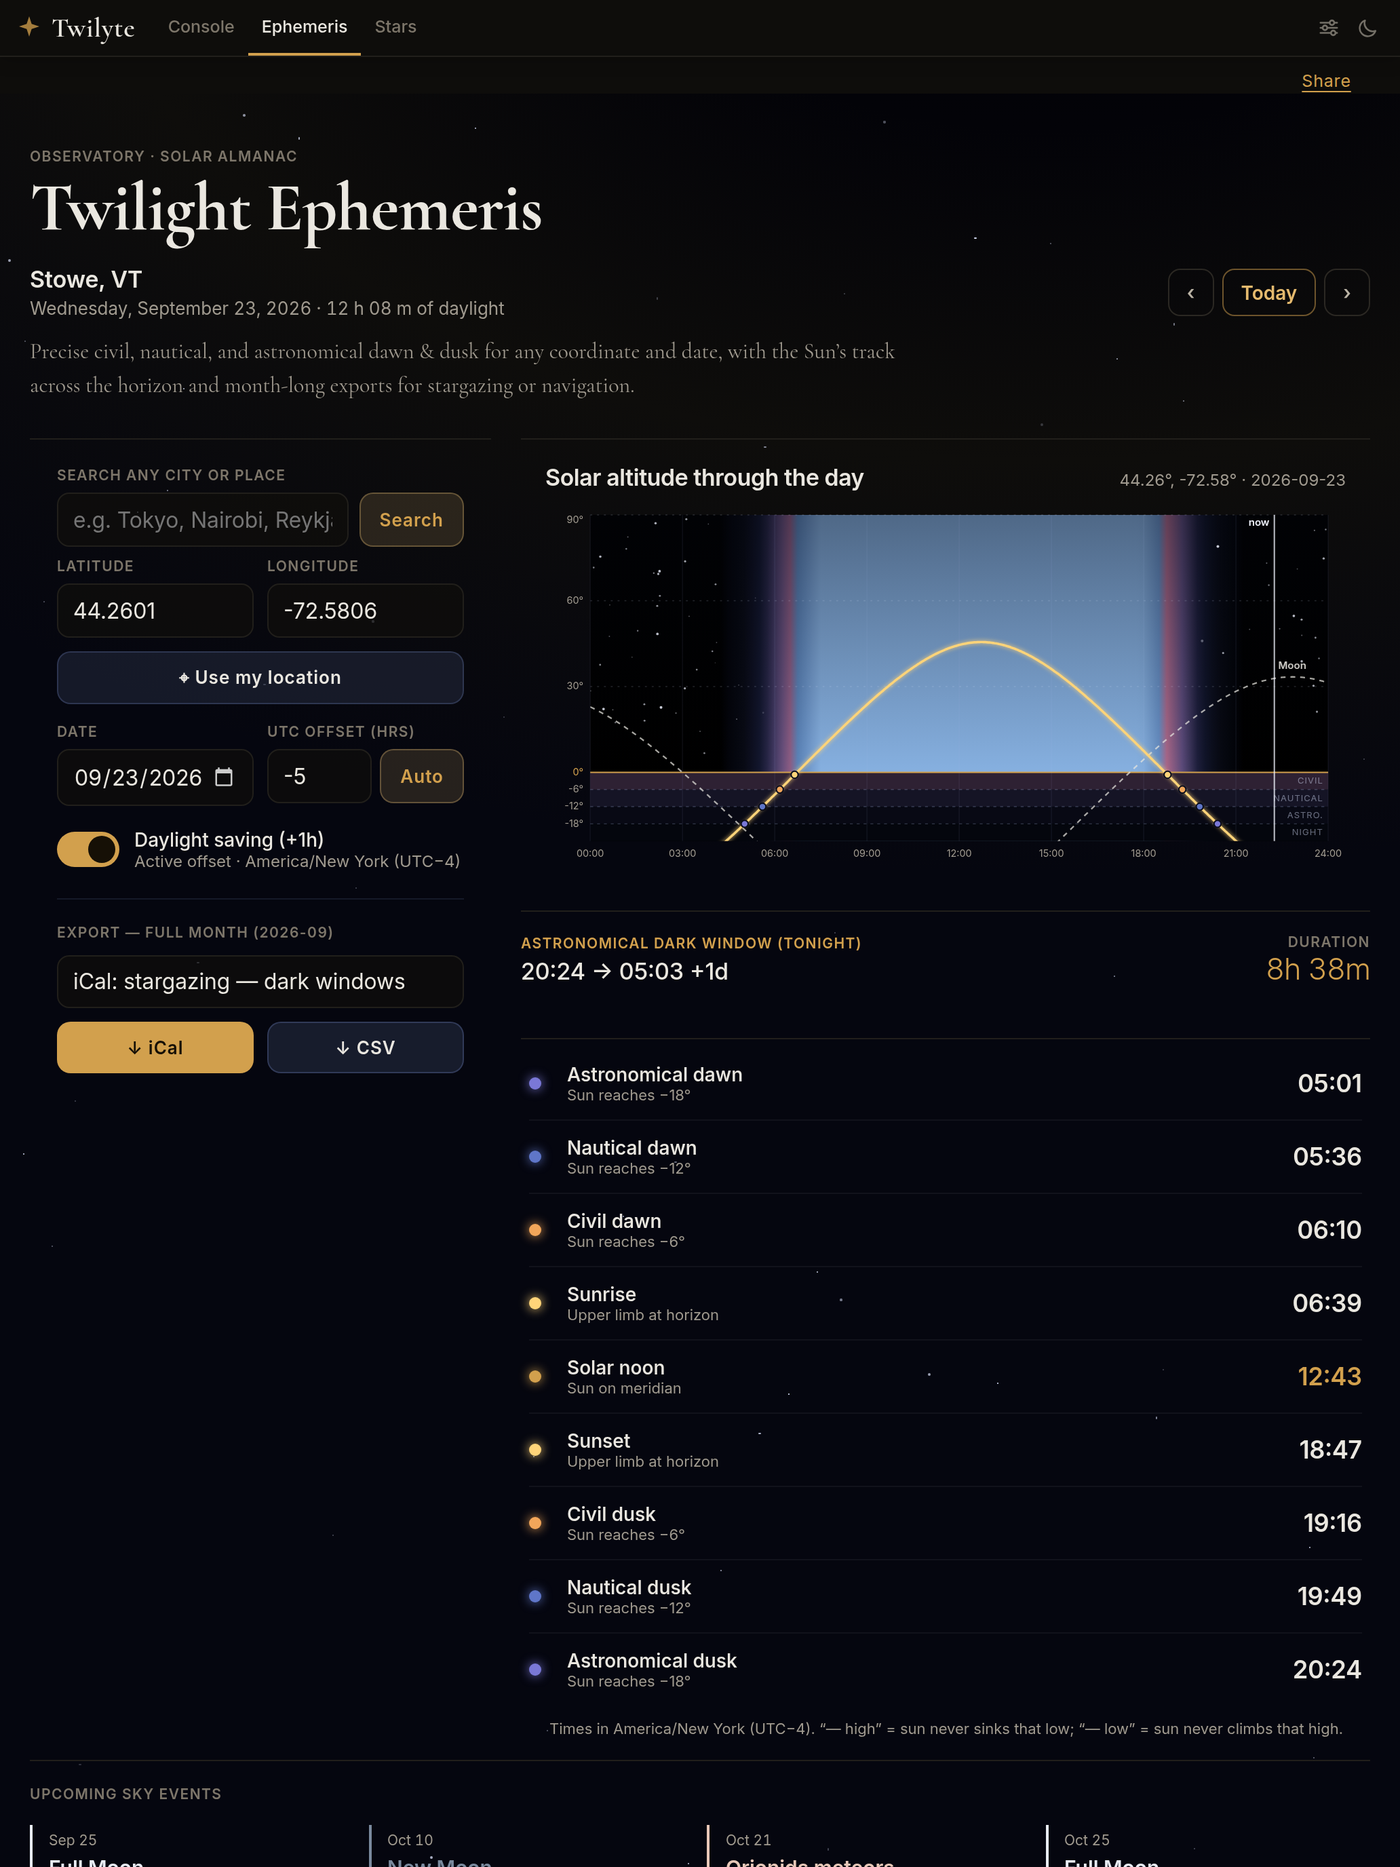
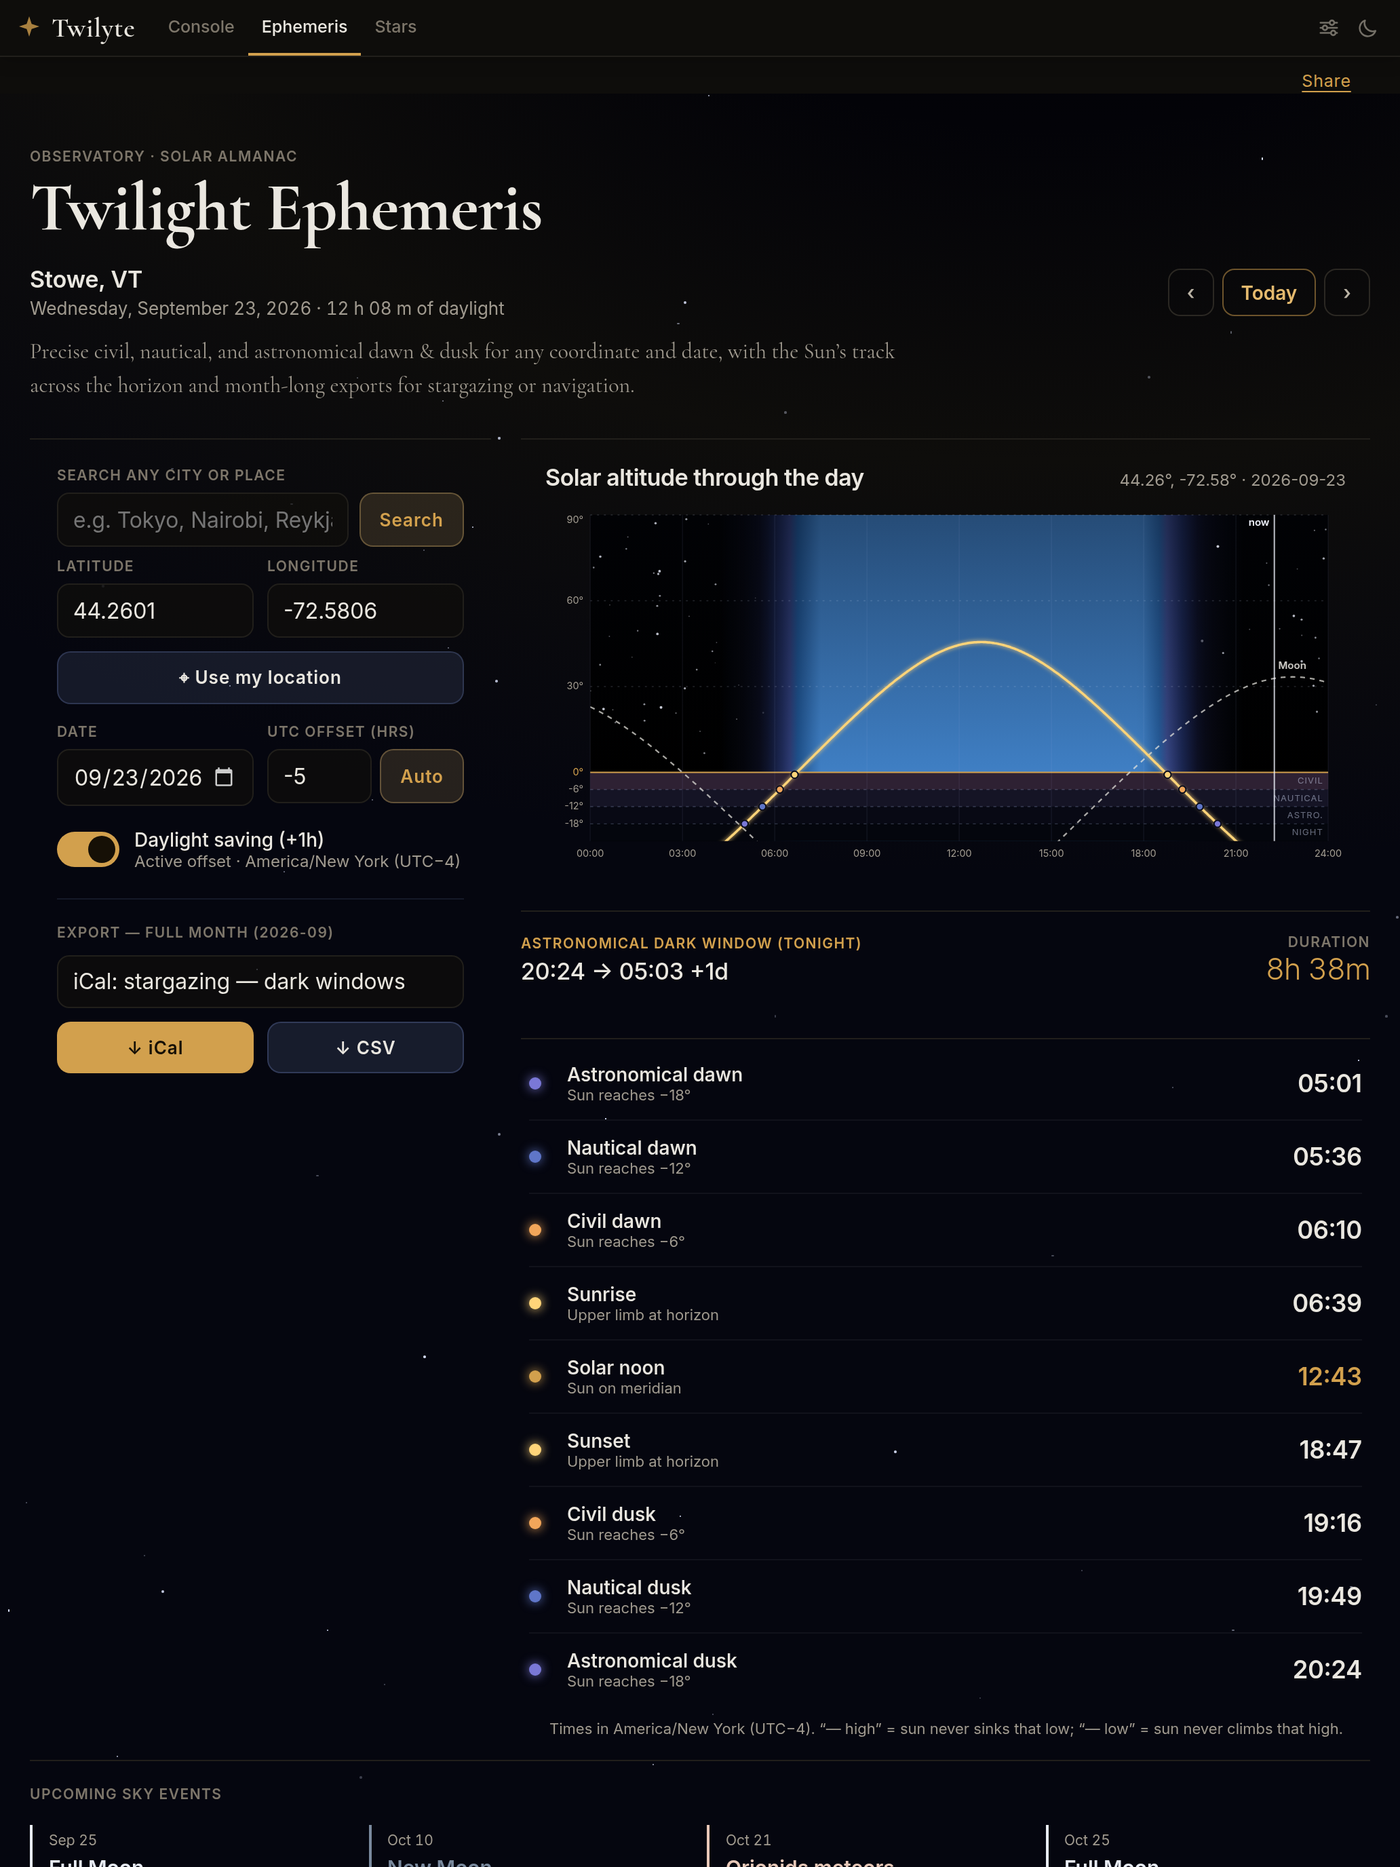
Fix two phone-screen defects: daytime planets and a blocky skyline on the Console, a stuck readout and magenta stripes on the Ephemeris
Screenshots from an iPhone on 2026-09-23 at 10:22 showed both screens
looking wrong.

Console horizon painting:
- Jupiter, Mars and Mercury were painted and labelled over a blue daytime
  sky. They were above the horizon, but nobody can see them in daylight,
  and "Mercury" sat inside the Sun's glow. Planets are now drawn only once
  the Sun is 3 degrees down, by which point the bright ones are out.
- The "Jupiter" label printed across the date line of the place-name
  header. Body labels now keep clear of the header: HorizonHero measures
  where the header's text actually is (a DOM Range over its contents,
  relative to the canvas) and passes it as `reserve`; a label that would
  cover it flips to the other side of its body, or is left off when both
  sides would, and the body itself is still drawn.
- In a city-bright sky (Bortle 6+) the skyline was rectangles up to 70 px
  tall and 46 wide, which read as a bar chart along the horizon. It is now
  low roofs, 5-19 px wide and 3-13 px tall over a gentle rise, with the odd
  taller building (up to ~28 px).

Ephemeris solar-altitude chart:
- The hover readout ("00:00 -47.0 deg Night") stayed stuck on the chart,
  covering the "now" label. On iOS a touch that turns into a scroll is
  cancelled, not ended, and only touchend cleared it. touchcancel now
  clears it too.
- The painted day used skyColors' middle-band colour, whose dusk and dawn
  pinks filled a full-height column, so each twilight read as a magenta
[…]

Changed region(s): [[0.5271, 0.25, 0.8682, 0.4375]]

diff --git a/index.html b/index.html
@@ -2,7 +2,7 @@
 <html lang="en">
 <head>
 <meta charset="utf-8" />
-<meta http-equiv="Content-Security-Policy" content="default-src 'self'; script-src 'self' 'sha256-LtvvfGVmfcoHWp4+TD4Lt7CBdUP12N0xoz2a4TCIlgA=' 'sha256-2WFykE7wvy9rfb6MuxdEk17+inylzAieA3wTF6WO6oc=' 'sha256-5iQLZZarga65DX0f9Sd0iyRmfHgUzB8mc6W/19dA1m0=' 'sha256-W7LOtLzrOupI1Jtgd/Y+/4i0SmNvTOg2p60Xv9ISVZs=' 'sha256-JAy4ooiqCu/2GUX/T0oycyxLZ4vrWZ1Xwxtepo5wmOg='; style-src 'self' 'unsafe-inline'; img-src 'self' data:; font-src 'self'; connect-src 'self' https://geocoding-api.open-meteo.com https://api.open-meteo.com https://twilight-counter.ken-b39.workers.dev; manifest-src 'self'; worker-src 'self'; base-uri 'self'; form-action 'self'; object-src 'none'; upgrade-insecure-requests" />
+<meta http-equiv="Content-Security-Policy" content="default-src 'self'; script-src 'self' 'sha256-LtvvfGVmfcoHWp4+TD4Lt7CBdUP12N0xoz2a4TCIlgA=' 'sha256-2WFykE7wvy9rfb6MuxdEk17+inylzAieA3wTF6WO6oc=' 'sha256-5iQLZZarga65DX0f9Sd0iyRmfHgUzB8mc6W/19dA1m0=' 'sha256-wC1wQlMr/a1BcoSChLdngOnOniN/RfM5JQhCIbvJ77g=' 'sha256-JAy4ooiqCu/2GUX/T0oycyxLZ4vrWZ1Xwxtepo5wmOg='; style-src 'self' 'unsafe-inline'; img-src 'self' data:; font-src 'self'; connect-src 'self' https://geocoding-api.open-meteo.com https://api.open-meteo.com https://twilight-counter.ken-b39.workers.dev; manifest-src 'self'; worker-src 'self'; base-uri 'self'; form-action 'self'; object-src 'none'; upgrade-insecure-requests" />
 <meta name="viewport" content="width=device-width, initial-scale=1, viewport-fit=cover" />
 <meta name="theme-color" content="#070a14" />
 <title>Twilyte — Live Sky Dashboard & Twilight Ephemeris</title>
@@ -1608,7 +1608,7 @@ const C = {
 // Bumped with sw.js's CACHE, so a Sensor details screenshot says which build
 // it came from. It sat at v56 for weeks while the app moved on, which made
 // every field report ambiguous.
-const BUILD = "v90";
+const BUILD = "v91";
 const PAGE_BG = "radial-gradient(1200px 760px at 75% -10%, #1b2440 0%, #0a0e1e 45%, #04050d 100%)";
 function phaseOf(alt) {
   if (alt > -0.833) return "day";
@@ -2144,13 +2144,24 @@ function drawHorizonScene(g, w, h, o) {
 
   g.font = '600 12px Inter, system-ui, sans-serif';
   g.textBaseline = 'middle';
+  // A name goes right of its body, or left near the edge; it is skipped if
+  // both would cover the place-name header drawn over the top-left
+  // (`o.reserve`, {w, h} in px), where it used to collide with the date line.
+  const rsv = o.reserve || { w: 0, h: 0 };
   const label = (text, x, y, gap) => {
-    const flip = x + gap + g.measureText(text).width > w - 8;
+    const tw = g.measureText(text).width;
+    const hits = (x0, x1) => y - 8 < rsv.h && x0 < rsv.w && x1 > 0;
+    let flip = x + gap + tw > w - 8;
+    if (!flip && hits(x + gap, x + gap + tw)) flip = true;
+    if (flip && hits(x - gap - tw, x - gap)) return;
     g.textAlign = flip ? 'right' : 'left';
     g.fillStyle = 'rgba(238,241,250,.82)';
     g.fillText(text, flip ? x - gap : x + gap, y);
   };
-  o.planets.forEach(p => {
+  // Planets only once the sky is dark enough to show them: in daylight they
+  // are there but invisible, and painting them over a blue sky promised
+  // something no one could see. By mid civil twilight the bright ones are out.
+  if (o.sunAlt < -3) o.planets.forEach(p => {
     const x = X(p.az);
     if (x === null) return;
     const y = Y(p.alt);
@@ -2180,9 +2191,14 @@ function drawHorizonScene(g, w, h, o) {
   g.beginPath();
   g.moveTo(0, h);
   if (o.bortle >= 6) {
+    // A distant town, not a wall of blocks: low roofs over a gentle rise,
+    // with the odd taller building. (The first version's buildings were up
+    // to 70 px tall and 46 wide, and read as a bar chart across the sky.)
     let x = 0;
     while (x < w) {
-      const bw = 12 + rnd() * 34, bh = 8 + rnd() * (rnd() > 0.85 ? 48 : 22);
+      const bw = 5 + rnd() * 14, tall = rnd() > 0.93;
+      const base = 3 + 3 * Math.sin(x / w * 6 + o.lon);
+      const bh = base + (tall ? 10 + rnd() * 12 : rnd() * 7);
       g.lineTo(x, hy - bh); g.lineTo(x + bw, hy - bh);
       x += bw;
     }
@@ -3030,6 +3046,7 @@ function SkyChart({ stars, lines, planets, moon, sunAz, fix, polaris }) {
    verdict over its ground, then the ribbon and the facts. */
 function HorizonHero({ loc, now, live, glance, bortle, header, panel }) {
   const canvasRef = useRef(null);
+  const headerRef = useRef(null);
   const wrapRef = useRef(null);
   const [width, setWidth] = useState(390);
   const [catalog, setCatalog] = useState(null);
@@ -3096,12 +3113,21 @@ function HorizonHero({ loc, now, live, glance, bortle, header, panel }) {
     cv.style.width = width + 'px'; cv.style.height = H + 'px';
     const g = cv.getContext('2d');
     g.setTransform(dpr, 0, 0, dpr, 0, 0);
+    // Where the place-name header actually sits over the painting, so body
+    // labels can keep clear of it.
+    let reserve = null;
+    const hdr = headerRef.current;
+    if (hdr && typeof document !== 'undefined' && document.createRange) {
+      const rg = document.createRange(); rg.selectNodeContents(hdr);
+      const hb = rg.getBoundingClientRect(), cb = cv.getBoundingClientRect();
+      if (hb.width) reserve = { w: hb.right - cb.left + 10, h: hb.bottom - cb.top + 6 };
+    }
     drawHorizonScene(g, width, H, {
       sky: live.sky, sunAlt: live.alt, sun: scene.sun, moon: live.m,
       facing: heroFacing(loc.lat, live.m), stars: scene.stars, planets: scene.planets,
-      bortle, lat: loc.lat, lon: loc.lon
+      bortle, lat: loc.lat, lon: loc.lon, reserve
     });
-  }, [width, H, scene, live, bortle, loc.lat, loc.lon]);
+  }, [width, H, scene, live, bortle, loc.lat, loc.lon, loc.name]);
 
   const pad = 'clamp(14px,3.5vw,40px)';
   return React.createElement(React.Fragment, null,
@@ -3113,7 +3139,7 @@ function HorizonHero({ loc, now, live, glance, bortle, header, panel }) {
         ref: canvasRef, className: 'hz-sky', style: { display: 'block', width: '100%', height: H },
         'aria-hidden': 'true'
       }),
-      header && React.createElement('div', { style: { position: 'absolute', left: pad, right: pad, top: 10, maxWidth: 1080, margin: '0 auto' } }, header),
+      header && React.createElement('div', { ref: headerRef, style: { position: 'absolute', left: pad, right: pad, top: 10, maxWidth: 1080, margin: '0 auto' } }, header),
       React.createElement('div', {
         // Changes on its own as twilight advances, rarely enough that
         // announcing it is useful rather than noisy.
@@ -4146,11 +4172,14 @@ function shiftDate(dateStr, days) {
    keyed on the Sun's altitude — so night is night-blue, the twilights glow and
    midday is day-blue: the day's actual light instead of five flat bands.
    `pts` is [localMinute, sunAltitude] through the day. */
+// The sky's overhead colour (skyColors' `s`), not its middle band: each
+// colour fills a full-height column of the chart, and the middle band's pinks
+// at dusk read as a magenta stripe down the chart rather than as a sky.
 function daySkyStops(pts, every) {
   const out = [];
-  for (let i = 0; i < pts.length; i += every) out.push({ at: pts[i][0] / 1440, color: skyColors(pts[i][1]).m });
+  for (let i = 0; i < pts.length; i += every) out.push({ at: pts[i][0] / 1440, color: skyColors(pts[i][1]).s });
   const last = pts[pts.length - 1];
-  if (out[out.length - 1].at < last[0] / 1440) out.push({ at: last[0] / 1440, color: skyColors(last[1]).m });
+  if (out[out.length - 1].at < last[0] / 1440) out.push({ at: last[0] / 1440, color: skyColors(last[1]).s });
   return out;
 }
 /* The Moon's altitude through a local day as seen from the ground (parallax
@@ -4496,7 +4525,9 @@ function TwilightEphemeris({ redMode } = {}) {
   const moonLayer = moonTrack && React.createElement("g", { clipPath: "url(#plot)" },
     React.createElement("path", { d: moonPath, fill: "none", stroke: "rgba(232,230,223,.72)", strokeWidth: 1.6, strokeDasharray: "5 5", strokeLinejoin: "round" }),
     moonPeak && moonPeak[1] > 2 && React.createElement("text", {
-      x: X(moonPeak[0]), y: Yc(moonPeak[1]) - 8, textAnchor: "middle",
+      // Kept inside the plot: at a peak near midnight the centred label was
+      // cut off at the chart's edge.
+      x: Math.max(padL + 18, Math.min(W - padR - 18, X(moonPeak[0]))), y: Yc(moonPeak[1]) - 8, textAnchor: "middle",
       style: { font: "600 10.5px var(--font-ui)", fill: "rgba(232,230,223,.88)" }
     }, "Moon"));
   const nowMin = ((Math.floor(Date.now() / 60000) + offMin) % 1440 + 1440) % 1440;
@@ -4931,7 +4962,10 @@ function TwilightEphemeris({ redMode } = {}) {
       const r = svgRef.current.getBoundingClientRect();
       setHoverX((e.touches[0].clientX - r.left) / r.width * W);
     },
-    onTouchEnd: () => setHoverX(null)
+    onTouchEnd: () => setHoverX(null),
+    // A touch that turns into a scroll is cancelled, not ended (iOS); without
+    // this the readout stayed stuck on the chart after scrolling past it.
+    onTouchCancel: () => setHoverX(null)
   }, /*#__PURE__*/React.createElement("defs", null, /*#__PURE__*/React.createElement("filter", {
     id: "glow"
   }, /*#__PURE__*/React.createElement("feGaussianBlur", {

diff --git a/scripts/test/horizon-scene.test.js b/scripts/test/horizon-scene.test.js
@@ -1,0 +1,81 @@
+'use strict';
+/*
+ * drawHorizonScene, the Console's painted sky, driven against a recording
+ * stand-in for the canvas context (the same approach as star-chart.test.js).
+ *
+ * Three things a phone screenshot showed wrong on 2026-09-23 and a syntax
+ * check could never see: planets painted and labelled in a blue daytime sky
+ * (where no one can see them), a planet label printed over the place-name
+ * header, and a city skyline of 70 px blocks that read as a bar chart.
+ */
+const test = require('node:test');
+const assert = require('node:assert');
+const { extract } = require('./extract.js');
+
+const m = extract(['D2R', 'R2D', 'sin', 'cos', 'hx', 'toHex', 'lerpC', 'skyColors',
+  'HZ_SPAN', 'panoX', 'panoY', 'hzRandom', 'drawMoonDisc', 'COMPASS16', 'compass16', 'drawHorizonScene']);
+
+function stubCtx() {
+  const texts = [], dots = [], ground = [];
+  const grad = { addColorStop() {} };
+  let path = [];
+  return {
+    texts, dots, ground,
+    createRadialGradient: () => grad, createLinearGradient: () => grad,
+    beginPath() { path = []; }, closePath() {}, fill() { if (path.length > 20) ground.push(path); },
+    stroke() {}, clip() {}, save() {}, restore() {}, setLineDash() {}, fillRect() {},
+    ellipse() {}, scale() {}, translate() {}, rotate() {},
+    arc(x, y, r) { dots.push({ x, y, r }); },
+    moveTo(x, y) { path.push([x, y]); }, lineTo(x, y) { path.push([x, y]); },
+    fillText(t, x, y) { texts.push({ t, x, y }); },
+    measureText: t => ({ width: t.length * 6 }),
+    fillStyle: '', strokeStyle: '', lineWidth: 1, font: '', textAlign: 'left', textBaseline: 'alphabetic', globalAlpha: 1
+  };
+}
+
+const W = 400, H = 380;
+const scene = over => Object.assign({
+  sky: m.skyColors(20), sunAlt: 20, sun: { az: 150, alt: 20 },
+  moon: { az: 300, alt: -20, illum: 0.5 }, facing: 180,
+  stars: [], planets: [{ name: 'Jupiter', az: 180, alt: 40 }, { name: 'Mars', az: 220, alt: 30 }],
+  bortle: 3, lat: 42, lon: -72
+}, over);
+const paint = o => { const g = stubCtx(); m.drawHorizonScene(g, W, H, o); return g; };
+const names = g => g.texts.map(t => t.t);
+
+test('no planets in a daylight sky: they are up, but no one can see them', () => {
+  const g = paint(scene());
+  assert.ok(!names(g).includes('Jupiter') && !names(g).includes('Mars'));
+});
+
+test('planets appear once the sky is dark enough, from mid civil twilight', () => {
+  assert.ok(names(paint(scene({ sunAlt: -4, sky: m.skyColors(-4) }))).includes('Jupiter'));
+  assert.ok(!names(paint(scene({ sunAlt: -2, sky: m.skyColors(-2) }))).includes('Jupiter'), 'not with the Sun just down');
+});
+
+test('a label that would cover the place-name header moves aside, or is left off', () => {
+  const night = { sunAlt: -20, sky: m.skyColors(-20) };
+  // Jupiter sits under the header; its name would print right of it, into
+  // the header, so it flips left of the body, clear of the reserved box.
+  const x = m.panoX(150, 180, m.HZ_SPAN) * W;
+  const reserve = { w: x + 60, h: 200 };
+  const g = paint(scene(Object.assign({}, night, { planets: [{ name: 'Jupiter', az: 150, alt: 60 }], reserve })));
+  const j = g.texts.find(t => t.t === 'Jupiter');
+  assert.ok(!j || j.x < x, `Jupiter label at ${j && j.x} would sit in the header`);
+  // Deep inside the box, with no room either side: the dot stays, the name goes.
+  const g2 = paint(scene(Object.assign({}, night, { planets: [{ name: 'Jupiter', az: 150, alt: 60 }], reserve: { w: W, h: 300 } })));
+  assert.ok(!names(g2).includes('Jupiter'));
+  assert.ok(g2.dots.some(d => Math.abs(d.x - x) < 1), 'the planet itself is still drawn');
+  // With no header, the label prints as always.
+  assert.ok(names(paint(scene(Object.assign({}, night, { planets: [{ name: 'Jupiter', az: 150, alt: 60 }] })))).includes('Jupiter'));
+});
+
+test('a city skyline is a low line of roofs, not a bar chart', () => {
+  const hy = Math.round(H * 0.62);
+  const g = paint(scene({ bortle: 8 }));
+  const outline = g.ground.find(p => p.some(([, y]) => y < hy));
+  assert.ok(outline, 'a skyline was drawn');
+  const tallest = Math.max(...outline.map(([, y]) => hy - y));
+  // Was up to 70 px. Now roofs 3-13 px over a gentle rise, towers to ~28.
+  assert.ok(tallest <= 30, `a ${tallest.toFixed(0)} px building`);
+});

diff --git a/scripts/test/ephemeris.test.js b/scripts/test/ephemeris.test.js
@@ -58,7 +58,13 @@ test('daySkyStops: the day painted with the Console’s own sky colours', () => 
   for (let i = 1; i < stops.length; i++) assert.ok(stops[i].at > stops[i - 1].at, 'stops must ascend');
   const lum = hex => [1, 3, 5].reduce((s, i) => s + parseInt(hex.slice(i, i + 2), 16), 0);
   const noon = stops.find(s => Math.abs(s.at - 0.5) < 0.006), midnight = stops[0];
-  assert.strictEqual(noon.color, m.skyColors(50).m, 'the colour is skyColors at that altitude');
+  assert.strictEqual(noon.color, m.skyColors(50).s, 'the colour is skyColors\u2019 overhead colour at that altitude');
+  // Each colour fills a full-height column, so none may be a warm horizon
+  // tone: the middle band's dusk pinks painted a magenta stripe down the chart.
+  for (const st of stops) {
+    const [r, , b] = [1, 3, 5].map(i => parseInt(st.color.slice(i, i + 2), 16));
+    assert.ok(b >= r, `a warm column at ${(st.at * 24).toFixed(1)}h: ${st.color}`);
+  }
   assert.ok(lum(noon.color) > 3 * lum(midnight.color), 'noon is far brighter than midnight');
 });
 

diff --git a/sw.js b/sw.js
@@ -1,4 +1,4 @@
-const CACHE = 'twilight-v90';
+const CACHE = 'twilight-v91';
 const ASSETS = [
   '/',
   '/index.html',

diff --git a/CLAUDE.md b/CLAUDE.md
@@ -115,7 +115,13 @@ Three tabs, one `index.html`, no build step:
   (all repeated the horizon view and facts); what only it had stays, flat:
   the next-twilight countdown, Sun height, horizon visible, and the sextant
   window with its calendar button. Then "Above the horizon now", the twilight
-  schedule, the band notes and the almanac, unchanged. Phase 2 is done.
+  schedule, the band notes and the almanac, unchanged. Phase 2 is done. **Painting fixes
+  from a phone screenshot (2026-09-23):** planets are drawn only once the
+  Sun is 3° down (they were painted and labelled in a blue daytime sky);
+  body labels keep clear of the place-name header (`o.reserve`, measured
+  from the header's text with a DOM Range) by flipping sides or being left
+  off; the city skyline is low roofs over a gentle rise (was blocks up to
+  70 px). `horizon-scene.test.js` pins all three with a recording canvas.
 - **Ephemeris: real time zones and the painted day (2026-09-22, #84).** The tab
   used to open on a hard-coded New York solstice (2026-06-21) with a hand-set
   "UTC-5 +DST", so anyone elsewhere — or anyone after a daylight-saving change —
@@ -137,7 +143,10 @@ Three tabs, one `index.html`, no build step:
   + 4°, so every curve nearly touched the top and a 20° winter noon looked
   as high as a 70° summer one — the owner found it "exaggerated". Now 30°,
   60° and 90° are labelled, the painted sky stops at the horizon, and below
-  it is dark ground with the twilight bands faintly tinted. Below 560 px the chart is drawn
+  it is dark ground with the twilight bands faintly tinted. The painted day uses
+  skyColors' overhead colour (`s`), not the middle band (`m`), whose dusk
+  pinks made a magenta stripe down the chart; a touch cancelled by a scroll
+  now clears the readout (it stuck on iOS); the Moon label stays inside. Below 560 px the chart is drawn
   at its shown width, one viewBox unit per pixel and nearly square (it was
   820×380 scaled to ~340 px: 4 px labels, a 150 px-tall day); wide screens
   keep 820×380. City search at the top of the form uses the same
